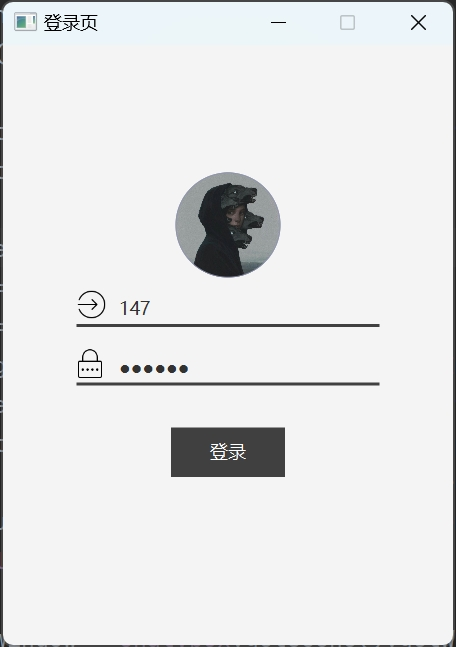
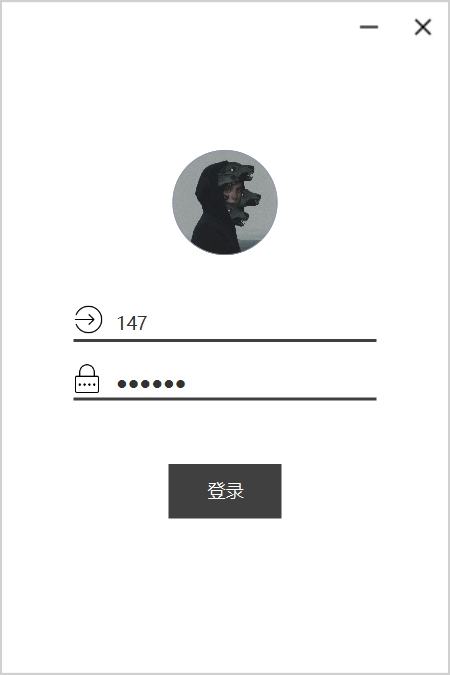
图片修改

diff --git a/client/src/main/resources/css/Login.css b/client/src/main/resources/css/Login.css
@@ -1,3 +1,7 @@
+#loginBorderPane{
+    -fx-effect: innershadow(gaussian, #D0D0D0, 1, 1.0, 0, 0);
+}
+
 .up_default{
     -fx-background-color: transparent;
     -fx-border-width: 0px 0px 0px 0px;

diff --git a/client/src/main/java/org/imtp/client/controller/ChatItemController.java b/client/src/main/java/org/imtp/client/controller/ChatItemController.java
@@ -202,11 +202,10 @@ public class ChatItemController extends AbstractController{
         double width = image.getWidth();
         ImageView iv = new ImageView(image);
         iv.setStyle("-fx-effect: dropshadow(three-pass-box, lightgray, 1, 0, 0, 0);");
-        if (height > max_height_image){
-            iv.setFitHeight(max_height_image);
-        }
         if (width > max_width_image){
             iv.setFitWidth(max_width_image);
+            double h = max_width_image * height / width;
+            iv.setFitHeight(h);
         }
         return iv;
     }
